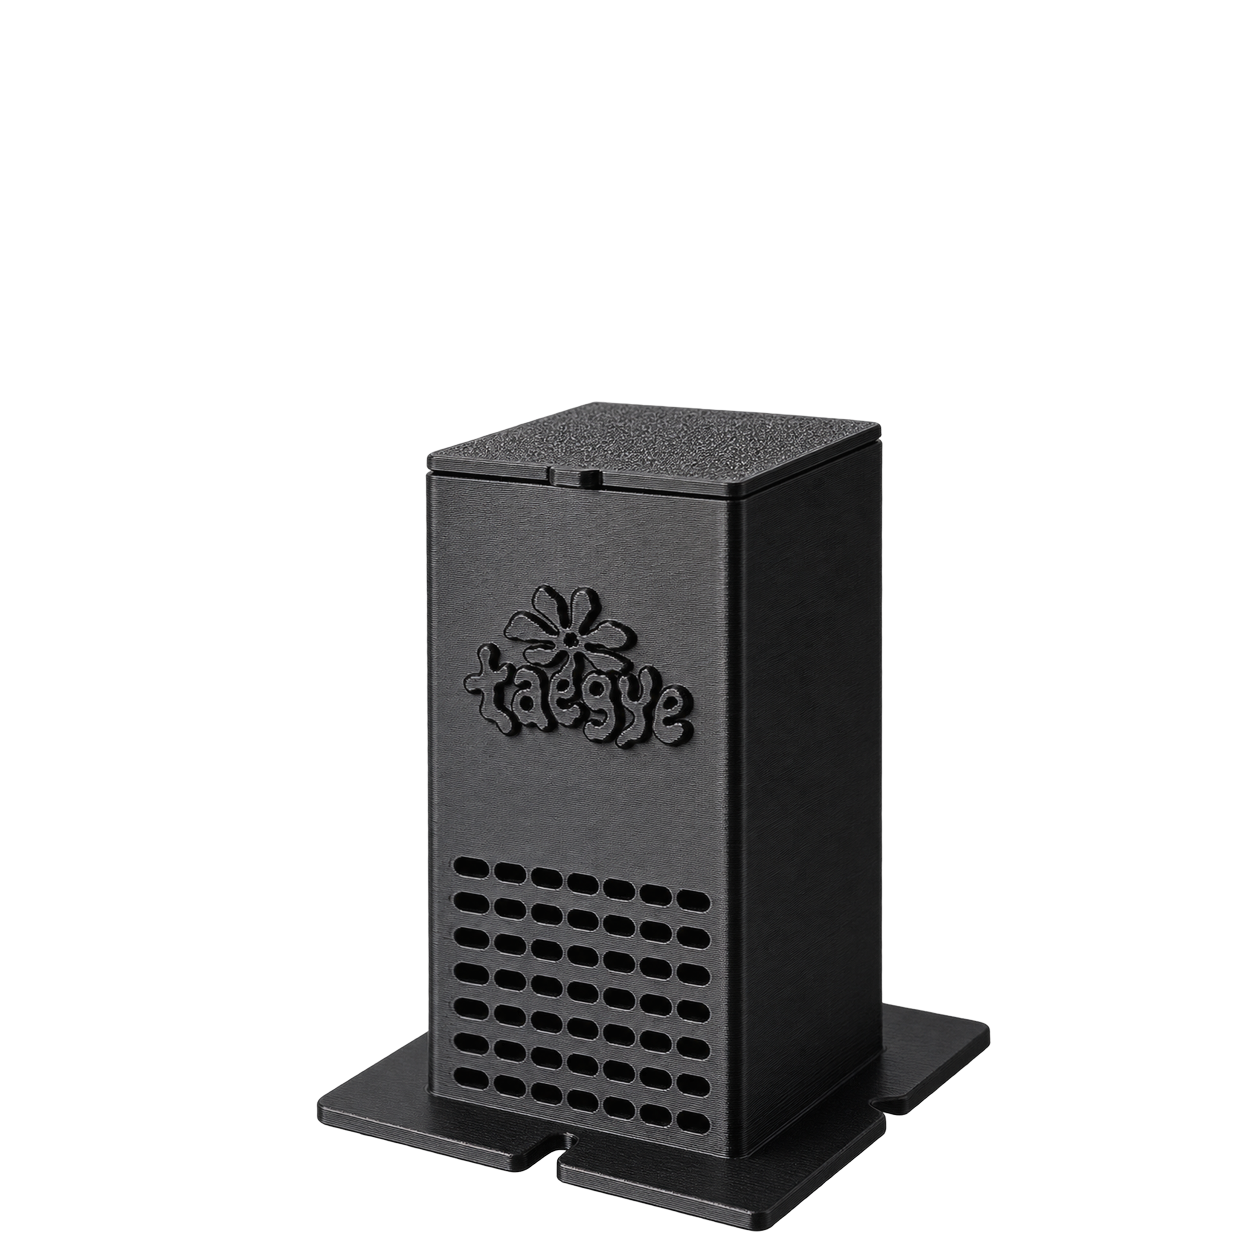
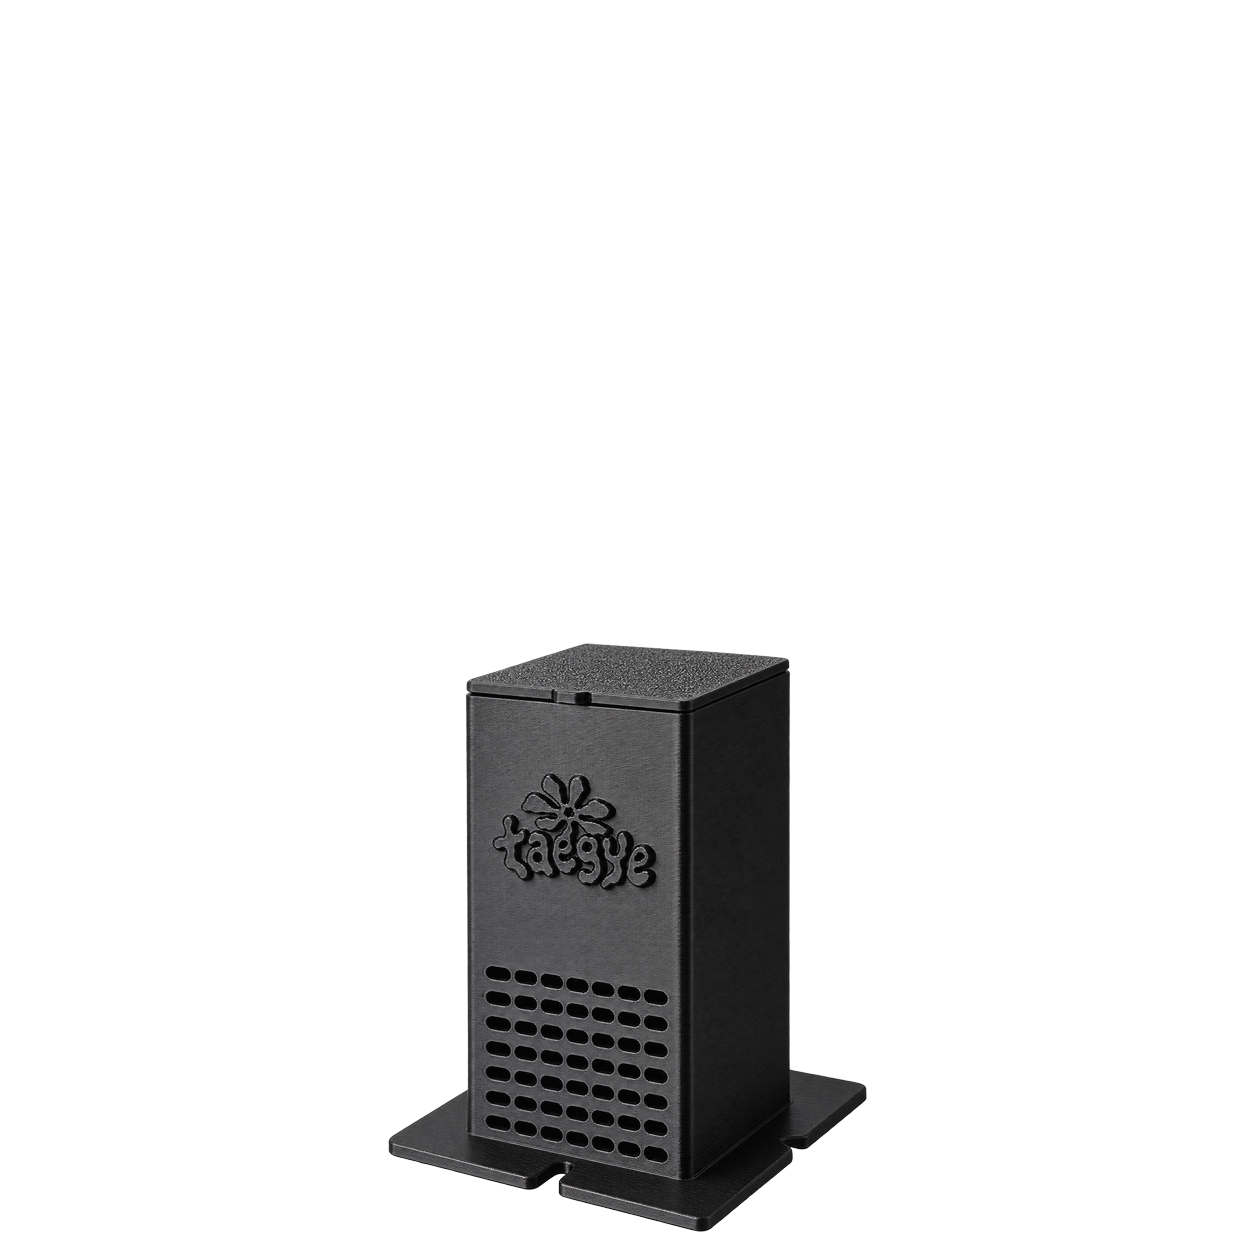
Add Drain Tower 230 and align 100/160/230 card images.

Changed region(s): [[0.2488, 0.311, 0.8086, 0.9952]]

diff --git a/src/lib/site.ts b/src/lib/site.ts
@@ -378,6 +378,16 @@ export const NEW_PRODUCTS: NewProduct[] = [
     emptyAlt: "TAEGYE Drain Tower 160",
     listedOnly: true,
   },
+  {
+    id: "drain-tower-230",
+    category: "drain-tower",
+    name: "Drain Tower 230",
+    nameKr: "드레인 타워 230",
+    finish: "Black",
+    emptySrc: "/products/drain-tower-230.png",
+    emptyAlt: "TAEGYE Drain Tower 230",
+    listedOnly: true,
+  },
 ];
 
 export function getNewProduct(id: string) {
